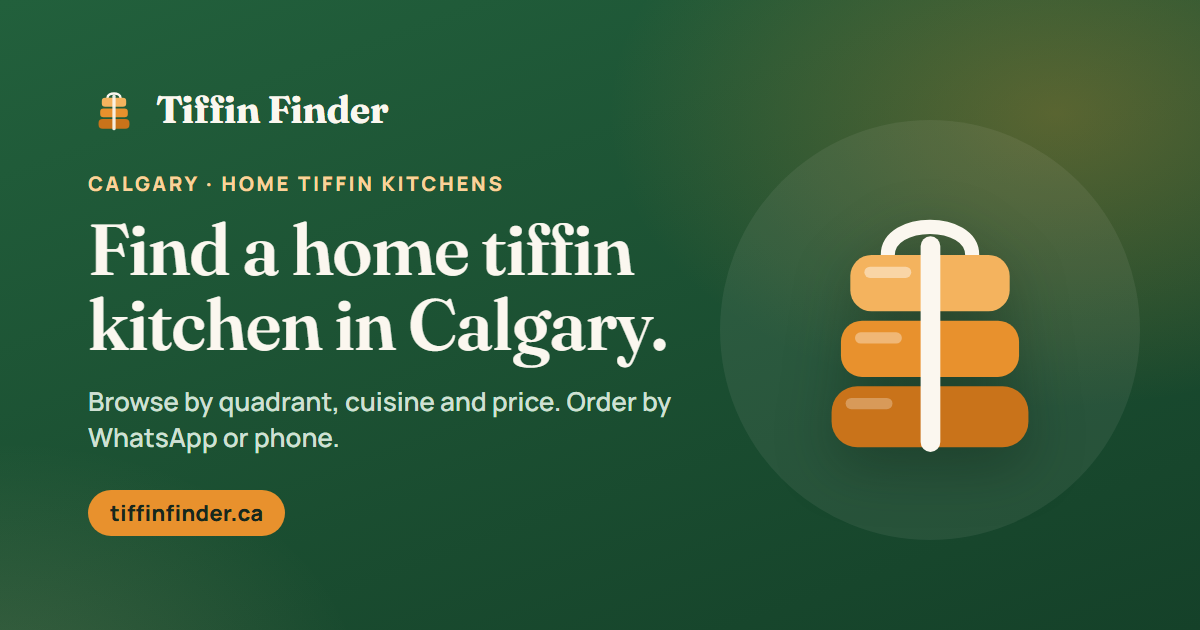
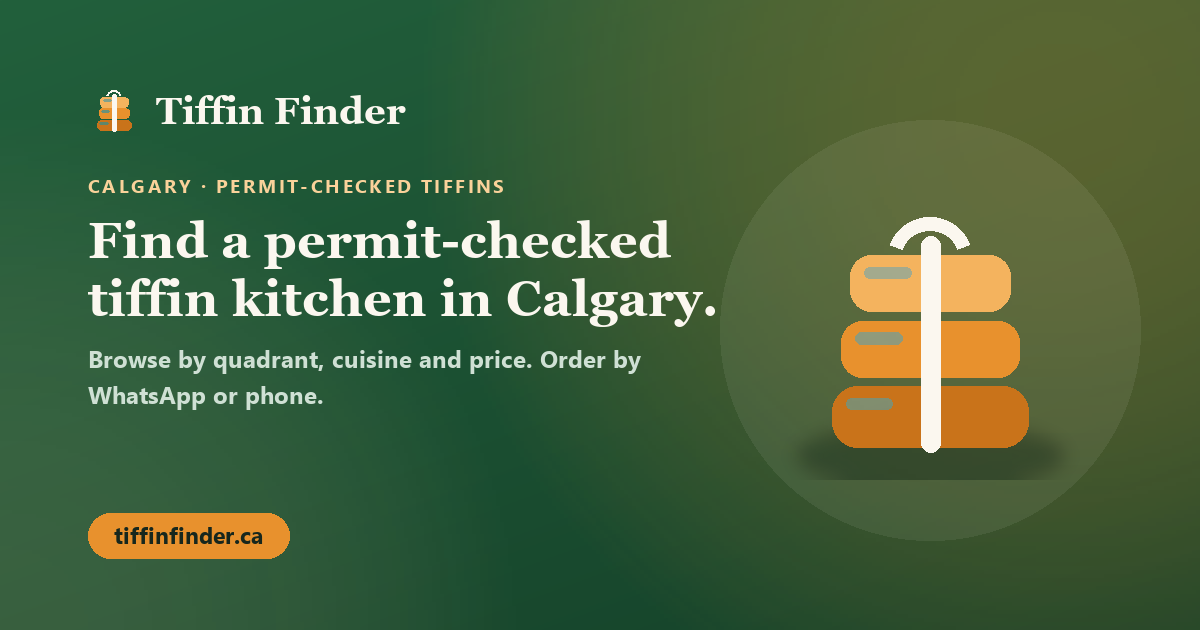
Round 17: fresh link-preview image
Regenerate og-image.png with a new tools/make_og.py (Pillow) instead of
headless Edge/Chrome: same 1200x630 layout and styles.css colours as
tools/og.html, but with the current wording ("Find a permit-checked
tiffin kitchen in Calgary.") instead of last round's leftover "home
tiffin kitchen(s)" text. No font files added; uses Windows system fonts
only. og-image.png isn't in sw.js's precache list, so no VERSION bump.

diff --git a/tools/make_og.py b/tools/make_og.py
@@ -1,0 +1,259 @@
+"""Render og-image.png (1200x630) with Pillow -- no headless browser needed.
+
+Matches the look of tools/og.html (the design source, styled by og.css) and
+the colour tokens in ../styles.css:
+
+    --brand-2 #22603c, --brand-3 #154129  (background gradient)
+    --accent #e8912d, accent tints #f4b35e / #c9731a  (tiffin-carrier art, pill)
+    --on-brand #fbf7ef  (headline / body text, cream)
+    --on-brand-accent #fad29a  (eyebrow)
+    --on-brand-muted #cfe0d4  (sub-line)
+    --ink #17271d  (text on the accent pill)
+
+Fonts: Windows system fonts only (Georgia for the serif wordmark/headline,
+Segoe UI for the sans body text) -- nothing is embedded in the repo.
+
+Usage:
+    python tools/make_og.py [output_path]
+
+Defaults to writing ../og-image.png (i.e. site/og-image.png) next to this
+tools/ folder. Also writes a losslessly-optimised PNG (optimize=True,
+minimal palette where possible) to stay well under WhatsApp's 300 KB limit.
+"""
+from __future__ import print_function
+
+import os
+import sys
+
+from PIL import Image, ImageDraw, ImageFont, ImageFilter
+
+ROOT = os.path.dirname(os.path.dirname(os.path.abspath(__file__)))
+FONT_DIR = r"C:\Windows\Fonts"
+
+W, H = 1200, 630
+
+# Colours, lifted straight from styles.css tokens (see module docstring).
+BRAND_2 = (0x22, 0x60, 0x3c)
+BRAND_3 = (0x15, 0x41, 0x29)
+ACCENT = (0xe8, 0x91, 0x2d)
+ACCENT_LIGHT = (0xf4, 0xb3, 0x5e)
+ACCENT_DARK = (0xc9, 0x73, 0x1a)
+CREAM = (0xfb, 0xf7, 0xef)
+ACCENT_TEXT = (0xfa, 0xd2, 0x9a)
+MUTED = (0xcf, 0xe0, 0xd4)
+INK = (0x17, 0x27, 0x1d)
+
+
+def font(path, size):
+    return ImageFont.truetype(os.path.join(FONT_DIR, path), size)
+
+
+def radial_gradient(size, center, radius, inner_rgba, outer_rgba):
+    """A soft radial glow as its own RGBA layer, blurred for a smooth falloff."""
+    w, h = size
+    layer = Image.new("RGBA", (w, h), (0, 0, 0, 0))
+    # Draw at 1/3 scale then upscale+blur: much faster than a per-pixel loop
+    # at full 1200x630, and the blur hides the downscale softening anyway.
+    scale = 4
+    sw, sh = w // scale, h // scale
+    small = Image.new("RGBA", (sw, sh), (0, 0, 0, 0))
+    px = small.load()
+    cx, cy = center[0] / scale, center[1] / scale
+    r = radius / scale
+    for y in range(sh):
+        for x in range(sw):
+            d = ((x - cx) ** 2 + (y - cy) ** 2) ** 0.5
+            t = min(1.0, d / r)
+            t = t * t  # ease-out falloff similar to a CSS radial-gradient
+            a = inner_rgba[3] * (1 - t) + outer_rgba[3] * t
+            px[x, y] = (inner_rgba[0], inner_rgba[1], inner_rgba[2], int(a))
+    small = small.resize((w, h), Image.BILINEAR)
+    return small
+
+
+def rounded_rect(draw, box, radius, fill):
+    draw.rounded_rectangle(box, radius=radius, fill=fill)
+
+
+def wrap_text(draw, text, fnt, max_width):
+    """Greedy word-wrap: returns a list of lines, each <= max_width px."""
+    words = text.split()
+    lines = []
+    cur = ""
+    for word in words:
+        trial = (cur + " " + word).strip()
+        w = draw.textbbox((0, 0), trial, font=fnt)[2]
+        if w <= max_width or not cur:
+            cur = trial
+        else:
+            lines.append(cur)
+            cur = word
+    if cur:
+        lines.append(cur)
+    return lines
+
+
+def draw_tracked_text(draw, xy, text, fnt, fill, tracking=0):
+    """Draw text with extra letter-spacing (px between glyphs), since PIL
+    has no native tracking support."""
+    x, y = xy
+    for ch in text:
+        draw.text((x, y), ch, font=fnt, fill=fill)
+        cw = draw.textbbox((0, 0), ch, font=fnt)[2]
+        x += cw + tracking
+    return x
+
+
+def draw_tiffin(base, cx, cy, scale, shadow=True):
+    """The stacked-tiffin-carrier glyph from tools/og.html, drawn with
+    primitives (rounded bars + a straight cream handle/clasp) at (cx, cy)
+    centre, sized by `scale` (1.0 == the ~300px hero art in og.html)."""
+    w = int(300 * scale)
+    tile = Image.new("RGBA", (w, w), (0, 0, 0, 0))
+    d = ImageDraw.Draw(tile)
+    u = w / 64.0  # og.html's glyphs are drawn on a 64x64 viewBox
+
+    def pt(x, y):
+        return (x * u, y * u)
+
+    # Three stacked tiers, largest/darkest at the bottom (matches og.html's
+    # .art svg: rows at y=16/30/44, widths 34/38/42, heights 12/12/13).
+    rounded_rect(d, [pt(15, 16), pt(49, 28)], 4.5 * u, ACCENT_LIGHT)
+    rounded_rect(d, [pt(13, 30), pt(51, 42)], 4.5 * u, ACCENT)
+    rounded_rect(d, [pt(11, 44), pt(53, 57)], 5.5 * u, ACCENT_DARK)
+
+    # Faint highlight strip on each tier (cream, low opacity).
+    d.rounded_rectangle([pt(18, 18.5), pt(28, 20.9)], 1.2 * u, fill=CREAM + (115,))
+    d.rounded_rectangle([pt(16, 32.5), pt(26, 34.9)], 1.2 * u, fill=CREAM + (89,))
+    d.rounded_rectangle([pt(14, 46.5), pt(24, 48.9)], 1.2 * u, fill=CREAM + (71,))
+
+    # Carry handle (open arc) above the stack.
+    handle_w = max(2, int(3 * u))
+    d.arc([pt(23, 8), pt(41, 26)], start=200, end=340, fill=CREAM, width=handle_w)
+
+    # Vertical clasp bar through the centre of all three tiers.
+    rounded_rect(d, [pt(30, 12), pt(34.2, 58)], 2.1 * u, CREAM)
+
+    if shadow:
+        shadow_layer = Image.new("RGBA", tile.size, (0, 0, 0, 0))
+        sd = ImageDraw.Draw(shadow_layer)
+        sd.ellipse([w * 0.06, w * 0.82, w * 0.94, w * 1.02], fill=(8, 28, 16, 90))
+        shadow_layer = shadow_layer.filter(ImageFilter.GaussianBlur(w * 0.03))
+        base.alpha_composite(shadow_layer, (int(cx - w / 2), int(cy - w / 2)))
+
+    base.alpha_composite(tile, (int(cx - w / 2), int(cy - w / 2)))
+
+
+def build(out_path):
+    img = Image.new("RGB", (W, H), BRAND_3)
+
+    # Diagonal brand gradient (linear-gradient(160deg, brand-2, brand-3)):
+    # approximate with a vertical-ish blend along the gradient axis.
+    import math
+    angle = math.radians(160 - 90)  # CSS 160deg measured from "up"
+    dx, dy = math.cos(angle), math.sin(angle)
+    base = Image.new("RGB", (W, H))
+    bpx = base.load()
+    # Project every corner onto the gradient axis to get the 0..1 range.
+    corners = [(0, 0), (W, 0), (0, H), (W, H)]
+    projs = [cx * dx + cy * dy for cx, cy in corners]
+    pmin, pmax = min(projs), max(projs)
+    span = (pmax - pmin) or 1
+    for y in range(H):
+        for x in range(0, W, 2):  # step 2, then fill the pair -- 2x faster
+            t = ((x * dx + y * dy) - pmin) / span
+            t = max(0.0, min(1.0, t))
+            r = int(BRAND_2[0] * (1 - t) + BRAND_3[0] * t)
+            g = int(BRAND_2[1] * (1 - t) + BRAND_3[1] * t)
+            b = int(BRAND_2[2] * (1 - t) + BRAND_3[2] * t)
+            bpx[x, y] = (r, g, b)
+            if x + 1 < W:
+                bpx[x + 1, y] = (r, g, b)
+    img = base.convert("RGBA")
+
+    # Two soft radial glows (matches og.css's two radial-gradients).
+    glow1 = radial_gradient((W, H), (int(W * 0.88), int(H * 0.18)), 640, ACCENT + (77,), ACCENT + (0,))
+    glow2 = radial_gradient((W, H), (0, H), 520, (250, 210, 154, 36), (250, 210, 154, 0))
+    img.alpha_composite(glow1)
+    img.alpha_composite(glow2)
+
+    # Faint cream disc behind the art (matches .art: rgb(251 247 239 / .07),
+    # centred at (930, 330), 420px across).
+    disc = Image.new("RGBA", (W, H), (0, 0, 0, 0))
+    dd = ImageDraw.Draw(disc)
+    dd.ellipse([930 - 210, 330 - 210, 930 + 210, 330 + 210], fill=CREAM + (18,))
+    img.alpha_composite(disc)
+
+    draw = ImageDraw.Draw(img)
+
+    # --- Brand row: tiffin glyph + wordmark -------------------------------
+    brand_top = 84
+    glyph_size = 52
+    draw_tiffin(img, 88 + glyph_size // 2, brand_top + glyph_size // 2, glyph_size / 300.0, shadow=False)
+    draw = ImageDraw.Draw(img)  # re-bind after alpha_composite calls
+    wordmark_font = font("georgiab.ttf", 38)
+    wm_x = 88 + glyph_size + 16
+    wm_bbox = draw.textbbox((0, 0), "Tiffin Finder", font=wordmark_font)
+    wm_h = wm_bbox[3] - wm_bbox[1]
+    draw.text((wm_x, brand_top + glyph_size / 2 - wm_h / 2 - wm_bbox[1]), "Tiffin Finder",
+               font=wordmark_font, fill=CREAM)
+
+    # --- Eyebrow ------------------------------------------------------------
+    eyebrow_font = font("segoeuib.ttf", 19)
+    eyebrow_y = brand_top + 36 + 52  # og.css: 36px margin-top under the brand row
+    eyebrow_text = "CALGARY \u00b7 PERMIT-CHECKED TIFFINS"
+    draw_tracked_text(draw, (88, eyebrow_y), eyebrow_text, eyebrow_font, ACCENT_TEXT, tracking=2.4)
+
+    # --- Headline (Fraunces -> Georgia Bold stand-in) ------------------------
+    # Text column is 700px wide (matches .copy), starting at x=88; wrap to
+    # stay well clear of the hero art circle (left edge at x=720).
+    copy_max_width = 660
+    h1_font = font("georgiab.ttf", 50)
+    h1_y = eyebrow_y + 20 + 20
+    headline = "Find a permit-checked tiffin kitchen in Calgary."
+    h1_lines = wrap_text(draw, headline, h1_font, copy_max_width)
+    line_gap = 58
+    for i, line in enumerate(h1_lines):
+        draw.text((88, h1_y + i * line_gap), line, font=h1_font, fill=CREAM)
+    h1_bottom = h1_y + (len(h1_lines) - 1) * line_gap + line_gap
+
+    # --- Sub-line ---------------------------------------------------------
+    sub_font = font("segoeuib.ttf", 24)
+    sub_y = h1_bottom + 14
+    sub_lines = wrap_text(draw, "Browse by quadrant, cuisine and price. Order by WhatsApp or phone.",
+                           sub_font, copy_max_width)
+    for i, line in enumerate(sub_lines):
+        draw.text((88, sub_y + i * 36), line, font=sub_font, fill=MUTED)
+
+    # --- Pill: tiffinfinder.ca -------------------------------------------------
+    pill_font = font("segoeuib.ttf", 23)
+    pill_text = "tiffinfinder.ca"
+    pill_pad_x, pill_pad_y = 26, 14
+    pbbox = draw.textbbox((0, 0), pill_text, font=pill_font)
+    pw = (pbbox[2] - pbbox[0]) + pill_pad_x * 2
+    ph = (pbbox[3] - pbbox[1]) + pill_pad_y * 2
+    pill_left, pill_bottom = 88, H - 72
+    pill_top = pill_bottom - ph
+    rounded_rect(draw, [pill_left, pill_top, pill_left + pw, pill_bottom], ph / 2, ACCENT)
+    draw.text((pill_left + pill_pad_x - pbbox[0], pill_top + pill_pad_y - pbbox[1]), pill_text,
+               font=pill_font, fill=INK)
+
+    # --- Hero art: the stacked tiffin carrier, right side ---------------------
+    draw_tiffin(img, 930, 330, 1.0, shadow=True)
+
+    img = img.convert("RGB")
+    img.save(out_path, format="PNG", optimize=True)
+    return out_path
+
+
+def main():
+    out_path = sys.argv[1] if len(sys.argv) > 1 else os.path.join(ROOT, "og-image.png")
+    build(out_path)
+    size = os.path.getsize(out_path)
+    print("wrote %s (%d bytes, %.1f KB)" % (out_path, size, size / 1024.0))
+    if size > 300 * 1024:
+        print("WARNING: over WhatsApp's 300 KB limit")
+
+
+if __name__ == "__main__":
+    main()

diff --git a/README.md b/README.md
@@ -100,6 +100,7 @@ The home page (`./`) reads these from the address:
 
 - **`tools/check_diet.py`** (standard library only; `python tools/check_diet.py` from the `tiffinfinder` folder) cross-checks each kitchen's sample menu against its own `veg_only`, `jain` and `halal` flags, using the same dish-glossary term matching as the kitchen page (`data/dishes.json`). It flags a `veg_only` kitchen whose menu names a dish tagged `meat`, `fish` or `egg`; a `jain` kitchen whose menu names a dish tagged `onion_garlic` or `root_veg`, unless the kitchen's own description already says its food is prepared the Jain way (no onion, no garlic, no root vegetables); and prints a plain reminder — never a pass/fail claim — that `halal` can't be checked from dish names alone. It exits non-zero if it finds a contradiction, or if `contains` holds anything other than the categories above.
 - **`tools/check_listings.py`** (Round 15; standard library only) checks every real kitchen (`"sample"` not `true`) in `data/kitchens.json` against the data model in `docs/listing-data.md`: the permit-and-consent safety gate, required fields, ISO dates, delivery/pickup community names against the real map data, no street-address text in a neighbourhood-only pickup label, a contact present, and no banned wording. Run automatically by `tools/check_ship.py`.
+- **`tools/make_og.py`** (Round 17; needs Pillow, run `python tools/make_og.py` from the `tiffinfinder` folder) regenerates `og-image.png`, described under "Link previews" above.
 - `tools/sample_pickup.py`, `tools/sample_decisions.py` and `tools/sample_business_type.py` (all standard library only, described above) fill in the sample kitchens' pickup points, trial weeks, capacity and business type deterministically.
 - `docs/research-notes.md` lists the sources for community names, quadrants and dish descriptions, and the official pages behind the permit guide (`permitted.html`). Delivery communities must come from the lists named there, with each community in one quadrant only.
 - `data/map/calgary.json` and `data/map/airdrie.json` are the map shapes (Calgary communities and Airdrie neighbourhoods as ready-made SVG paths), from the City of Calgary's and City of Airdrie's open data. `docs/map-data.md` explains where they come from, their licences and how to refresh them. The map must always show the two credit lines under it ("Contains information licensed under the Open Government Licence – City of Calgary." and "Contains information licensed under the Open Data Licence – City of Airdrie."), and must not use either City's logo.
@@ -170,13 +171,13 @@ Pages are network-first: the service worker asks the network for the latest page
 
 ## Link previews
 
-Pages carry Open Graph and Twitter tags, so links shared on WhatsApp, Facebook, iMessage and similar show a card with `og-image.png` (1200×630, keep it under 300 KB for WhatsApp). The image is rendered from `tools/og.html` (styled by `tools/og.css`, so it passes its own Content-Security-Policy; neither file is part of the offline app shell) with headless Microsoft Edge (Chrome takes the same flags). Run this in Command Prompt from the `tiffinfinder` folder; it uses a throwaway profile folder, not your own:
+Pages carry Open Graph and Twitter tags, so links shared on WhatsApp, Facebook, iMessage and similar show a card with `og-image.png` (1200×630, keep it under 300 KB for WhatsApp). `tools/og.html` (styled by `tools/og.css`) is the design source for that image's wording, colours and layout, but the image itself is generated with Pillow instead of a headless browser (no headless Edge/Chrome needed, and neither `og.html` nor `og.css` is part of the offline app shell). Regenerate it with:
 
 ```
-"C:\Program Files (x86)\Microsoft\Edge\Application\msedge.exe" --headless=new --disable-gpu --hide-scrollbars --no-first-run --no-default-browser-check --user-data-dir="%TEMP%\edge-og" --force-device-scale-factor=1 --window-size=1200,630 --virtual-time-budget=5000 --screenshot="%CD%\og-image.png" "file:///%CD:\=/%/tools/og.html"
+python tools/make_og.py
 ```
 
-Edge saves about 370 KB, which is over WhatsApp's 300 KB limit, so the committed file was re-saved losslessly (same pixels, PNG "Sub" row filter) to about 250 KB. Any lossless PNG re-save that gets it under 300 KB works. Kitchen links (`?k=`) share the home page's preview, because link-preview crawlers don't run JavaScript.
+`tools/make_og.py` draws the 1200×630 PNG straight from `styles.css`'s colour tokens (the brand-green gradient, accent orange, cream text) and Windows system fonts only (Georgia Bold for the wordmark/headline, Segoe UI Bold for the smaller text) — no font files are embedded in the repo, so it only works on a machine with those fonts (any normal Windows install). The tiffin-carrier glyph is drawn with plain shapes (rounded bars, an arc handle, a straight clasp), matching the SVG in `tools/og.html`. It writes straight to `og-image.png` and prints the resulting file size; it saves with PNG optimisation and comes in well under the 300 KB limit (no separate lossless re-save step needed). Kitchen links (`?k=`) share the home page's preview, because link-preview crawlers don't run JavaScript.
 
 ## Icons
 

diff --git a/CHANGELOG.md b/CHANGELOG.md
@@ -1,5 +1,11 @@
 # Changelog
 
+## Round 17 — 2026-09-25
+
+- Replaced `og-image.png` (the picture shown when a Tiffin Finder link is shared on WhatsApp, Facebook, iMessage and similar) — it still had last round's old baked-in wording, "home tiffin kitchen(s)", left over from before the site listed every permitted kind of operator. The new image reads "Find a permit-checked tiffin kitchen in Calgary." and "Calgary · Permit-checked tiffins", matching `tools/og.html` (the design source, already updated last round) and carrying no "home kitchens only" claim.
+- New `tools/make_og.py` generates that image directly with Pillow — same 1200×630 size, same brand colours (from `styles.css`), same layout (wordmark, eyebrow, headline, sub-line, `tiffinfinder.ca` pill, stacked tiffin-carrier glyph) — instead of screenshotting `tools/og.html` with headless Edge/Chrome. It uses only Windows system fonts (Georgia Bold, Segoe UI Bold; no font files added to the repo) and saves well under WhatsApp's 300 KB limit (about 92 KB) with no separate re-save step needed. `README.md`'s "Link previews" section and Tools list now describe the new one-command way to regenerate it.
+- `og-image.png` isn't part of the offline app shell (`sw.js`'s precache list), so no version bump was needed this round.
+
 ## Round 16 — 2026-09-25
 
 - Wording pass to match Adeel's decisions: the site lists every permitted kind of tiffin operator, not home kitchens only, and pickup and delivery matter equally. Updated the tagline used across page titles, meta descriptions, social-share (Open Graph/Twitter) text, the shared footer line, the hero copy on the home page, and `manifest.webmanifest` from "permit-checked home tiffin kitchens" to "permit-checked tiffin kitchens", and worked "home cooks, restaurants and caterers" into the longer descriptions where there was room.
